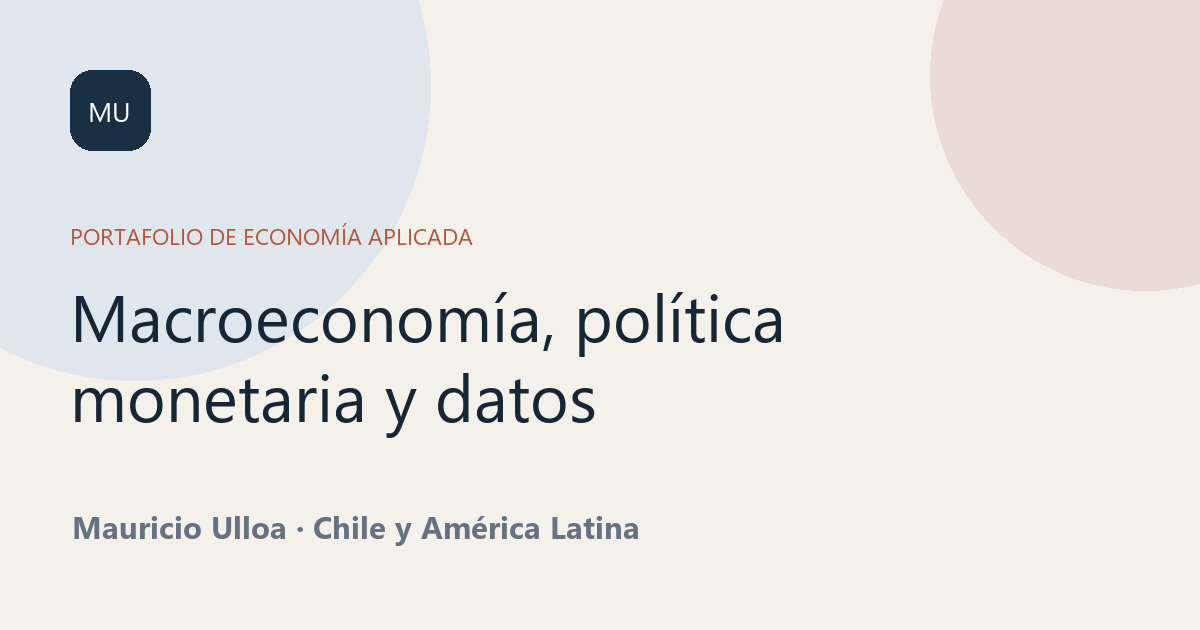
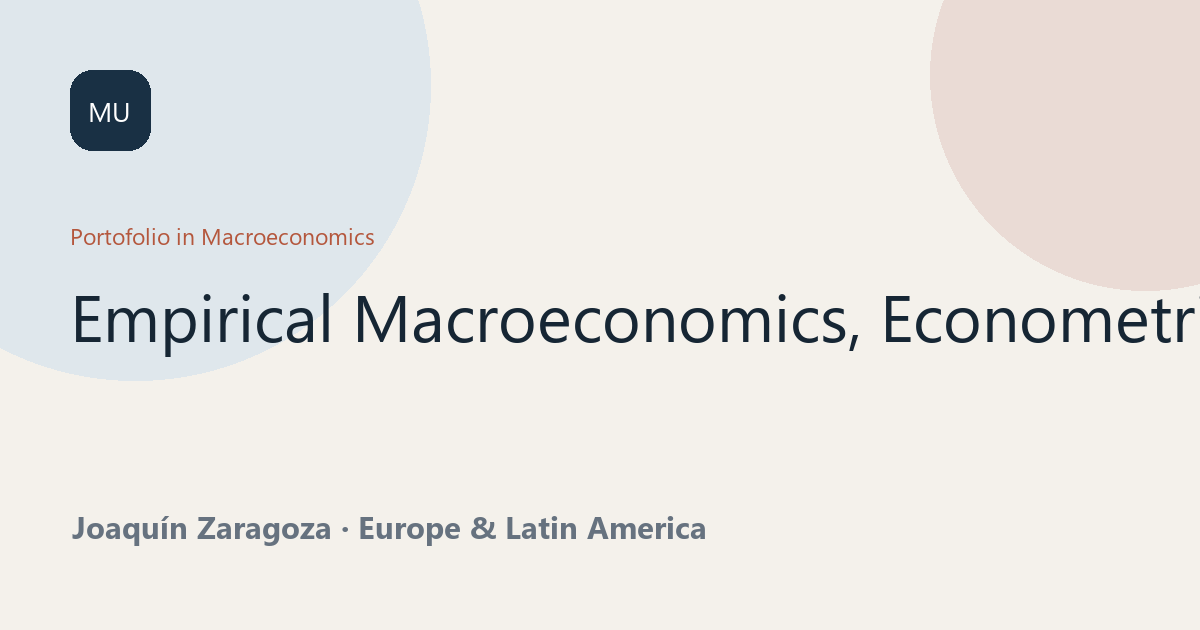
Building site con cambios anteriores

diff --git a/docs/index.html b/docs/index.html
@@ -4,13 +4,13 @@
   <meta charset="utf-8">
   <meta name="viewport" content="width=device-width, initial-scale=1">
   <title>Home · Joaquín Zaragoza López</title>
-  <meta name="description" content="Economics Portafolio: Empirical Macroeconomics, Econometrics, Monetary &amp; Fiscal Policy, and more of Latin America and Europe.">
+  <meta name="description" content="Economics Portfolio: Empirical Macroeconomics, Econometrics, Monetary &amp; Fiscal Policy, and more of Latin America and Europe.">
   <meta name="author" content="Joaquín Zaragoza López">
   <meta name="theme-color" content="#f4f1eb">
   <link rel="canonical" href="https://bumbli99.github.io/Economics/">
   <meta property="og:type" content="website">
   <meta property="og:title" content="Home · Joaquín Zaragoza López">
-  <meta property="og:description" content="Economics Portafolio: Empirical Macroeconomics, Econometrics, Monetary &amp; Fiscal Policy, and more of Latin America and Europe.">
+  <meta property="og:description" content="Economics Portfolio: Empirical Macroeconomics, Econometrics, Monetary &amp; Fiscal Policy, and more of Latin America and Europe.">
   <meta property="og:url" content="https://bumbli99.github.io/Economics/">
   <meta property="og:image" content="https://bumbli99.github.io/Economics/assets/img/og-cover.png">
   <meta name="twitter:card" content="summary_large_image">
@@ -18,7 +18,7 @@
   <link rel="stylesheet" href="assets/css/site.css?v=b2127b65310f">
 </head>
 <body class="home">
-  <a class="skip-link" href="#contenido">Saltar al contenido</a>
+  <a class="skip-link" href="#contenido">Skip to the content</a>
   <header class="site-header">
     <div class="header-inner">
       <a class="brand" href="index.html" aria-label="Home">
@@ -29,7 +29,9 @@
       <nav class="site-nav" aria-label="Navegación principal">
         <a href="index.html" >Inicio</a>
         <a href="proyectos.html" >Proyectos</a>
-        <a href="analisis.html" >Análisis</a>
+        
+        
+        <!-- <a href="analisis.html" >Análisis</a> -->
         <a href="cv.html" >CV</a>
         <a href="contacto.html" >Contacto</a>
       </nav>
@@ -37,16 +39,15 @@
   </header>
 
   <main id="contenido" class="site-main">
-<section class="home-hero">
-  <div class="container hero-grid">
+<section class="home-hero"> 
     <div class="hero-copy">
-      <p class="eyebrow">Portafolio de economía aplicada</p>
+      <p class="eyebrow">Personal portfolio in Macroeconomics</p>
       <h1 class="display-title">Macroeconomía aplicada, proyecciones y política pública.</h1>
       <p class="lead">Soy economista y Magíster en Análisis Económico por la Universidad de Chile. Analizo la actividad económica, los riesgos fiscales y las diferencias territoriales mediante datos, econometría y escenarios. Este portafolio reúne herramientas interactivas para explorar los resultados y entender sus implicancias.</p>
       <div class="actions">
-        <a class="button button-primary" href="proyectos.html">Explorar proyectos</a>
-        <a class="button button-secondary" href="assets/files/cv-mauricio-ulloa.pdf">Descargar CV</a>
-        <a class="button button-ghost" href="contacto.html">Contacto</a>
+        <a class="button button-primary" href="proyectos.html">Explore projects</a>
+        <a class="button button-secondary" href="assets/files/Curriculum_Vitae__08_26_.pdf> Download CV</a>
+        <a class="button button-ghost" href="contacto.html">Contact</a>
       </div>
       <div class="stats-grid">
         <div class="stat"><div class="stat-value">7</div><div class="stat-label">proyectos aplicados</div></div>
@@ -109,7 +110,10 @@
   </div>
 </section>
 
-<section class="section analysis-home" aria-labelledby="analisis-heading">
+
+<!-- SE ELIMINA LA SECCIÓN DE ANÁLISIS. SE MANTIENE POR POSIBLE USO INTERESANTE EN EL FUTURO-->
+
+<!--<section class="section analysis-home" aria-labelledby="analisis-heading">
   <div class="container">
     <div class="section-heading">
       <div><p class="eyebrow">Ideas y debate</p><h2 id="analisis-heading">Análisis</h2><p>Columnas sobre economía, instituciones y política pública.</p></div>
@@ -138,7 +142,7 @@
     <a class="text-link" href="analisis/cuantos-funcionarios-necesita-el-estado.html" aria-label="Leer columna: ¿Cuántos funcionarios necesita el Estado?">Leer columna →</a>
   </article>
 </div>  </div>
-</section>
+</section>-->
 
 <section class="section section-alt">
   <div class="container two-col">

diff --git a/docs/analisis/hidrogeno-verde-competitividad.html b/docs/analisis/hidrogeno-verde-competitividad.html
@@ -16,11 +16,11 @@
   <meta name="twitter:card" content="summary_large_image">
   <link rel="icon" href="../assets/img/favicon.svg" type="image/svg+xml">
   <link rel="stylesheet" href="../assets/css/site.css?v=b2127b65310f">
-<meta property="article:author" content="Mauricio Ulloa">
+<meta property="article:author" content="Joaquín Zaragoza">
 <meta property="article:section" content="Energía y desarrollo productivo">
 </head>
 <body class="">
-  <a class="skip-link" href="#contenido">Saltar al contenido</a>
+  <a class="skip-link" href="#contenido">Skip to the content</a>
   <header class="site-header">
     <div class="header-inner">
       <a class="brand" href="../index.html" aria-label="Home">
@@ -31,7 +31,9 @@
       <nav class="site-nav" aria-label="Navegación principal">
         <a href="../index.html" >Inicio</a>
         <a href="../proyectos.html" >Proyectos</a>
-        <a href="../analisis.html" aria-current="page">Análisis</a>
+        
+        
+        <!-- <a href="../analisis.html" aria-current="page">Análisis</a> -->
         <a href="../cv.html" >CV</a>
         <a href="../contacto.html" >Contacto</a>
       </nav>
@@ -45,7 +47,7 @@
     <p class="eyebrow">Energía y desarrollo productivo</p>
     <h1>Del potencial a la competitividad: el desafío del hidrógeno verde en Chile</h1>
     <p class="analysis-deck">Una ventaja natural no es todavía una ventaja competitiva.</p>
-    <div class="analysis-byline"><strong>Mauricio Ulloa</strong><span><time datetime="2026-05-25">25 de May de 2026</time> · 10 min de lectura</span></div>
+    <div class="analysis-byline"><strong>Joaquín Zaragoza</strong><span><time datetime="2026-05-25">25 de May de 2026</time> · 10 min de lectura</span></div>
   </header>
   <details class="analysis-contents">
     <summary>En esta columna</summary>

diff --git a/docs/analisis/cuantos-funcionarios-necesita-el-estado.html b/docs/analisis/cuantos-funcionarios-necesita-el-estado.html
@@ -16,11 +16,11 @@
   <meta name="twitter:card" content="summary_large_image">
   <link rel="icon" href="../assets/img/favicon.svg" type="image/svg+xml">
   <link rel="stylesheet" href="../assets/css/site.css?v=b2127b65310f">
-<meta property="article:author" content="Mauricio Ulloa">
+<meta property="article:author" content="Joaquín Zaragoza">
 <meta property="article:section" content="Gasto público y productividad">
 </head>
 <body class="">
-  <a class="skip-link" href="#contenido">Saltar al contenido</a>
+  <a class="skip-link" href="#contenido">Skip to the content</a>
   <header class="site-header">
     <div class="header-inner">
       <a class="brand" href="../index.html" aria-label="Home">
@@ -31,7 +31,9 @@
       <nav class="site-nav" aria-label="Navegación principal">
         <a href="../index.html" >Inicio</a>
         <a href="../proyectos.html" >Proyectos</a>
-        <a href="../analisis.html" aria-current="page">Análisis</a>
+        
+        
+        <!-- <a href="../analisis.html" aria-current="page">Análisis</a> -->
         <a href="../cv.html" >CV</a>
         <a href="../contacto.html" >Contacto</a>
       </nav>
@@ -45,7 +47,7 @@
     <p class="eyebrow">Gasto público y productividad</p>
     <h1>¿Cuántos funcionarios necesita el Estado?</h1>
     <p class="analysis-deck">Una discusión sobre ajuste fiscal, funciones públicas y eficiencia.</p>
-    <div class="analysis-byline"><strong>Mauricio Ulloa</strong><span><time datetime="2026-01-31">31 de January de 2026</time> · 10 min de lectura</span></div>
+    <div class="analysis-byline"><strong>Joaquín Zaragoza</strong><span><time datetime="2026-01-31">31 de January de 2026</time> · 10 min de lectura</span></div>
   </header>
   <details class="analysis-contents">
     <summary>En esta columna</summary>

diff --git a/docs/analisis/quien-gana-mas-en-el-estado.html b/docs/analisis/quien-gana-mas-en-el-estado.html
@@ -16,11 +16,11 @@
   <meta name="twitter:card" content="summary_large_image">
   <link rel="icon" href="../assets/img/favicon.svg" type="image/svg+xml">
   <link rel="stylesheet" href="../assets/css/site.css?v=b2127b65310f">
-<meta property="article:author" content="Mauricio Ulloa">
+<meta property="article:author" content="Joaquín Zaragoza">
 <meta property="article:section" content="Instituciones y capital humano">
 </head>
 <body class="">
-  <a class="skip-link" href="#contenido">Saltar al contenido</a>
+  <a class="skip-link" href="#contenido">Skip to the content</a>
   <header class="site-header">
     <div class="header-inner">
       <a class="brand" href="../index.html" aria-label="Home">
@@ -31,7 +31,9 @@
       <nav class="site-nav" aria-label="Navegación principal">
         <a href="../index.html" >Inicio</a>
         <a href="../proyectos.html" >Proyectos</a>
-        <a href="../analisis.html" aria-current="page">Análisis</a>
+        
+        
+        <!-- <a href="../analisis.html" aria-current="page">Análisis</a> -->
         <a href="../cv.html" >CV</a>
         <a href="../contacto.html" >Contacto</a>
       </nav>
@@ -45,7 +47,7 @@
     <p class="eyebrow">Instituciones y capital humano</p>
     <h1>¿Quién gana más en el Estado?</h1>
     <p class="analysis-deck">Remuneraciones públicas, capital humano y el caso del Banco Central.</p>
-    <div class="analysis-byline"><strong>Mauricio Ulloa</strong><span><time datetime="2026-09-05">5 de September de 2026</time> · 6 min de lectura</span></div>
+    <div class="analysis-byline"><strong>Joaquín Zaragoza</strong><span><time datetime="2026-09-05">5 de September de 2026</time> · 6 min de lectura</span></div>
   </header>
   <details class="analysis-contents">
     <summary>En esta columna</summary>

diff --git a/docs/proyectos/sostenibilidad-deuda.html b/docs/proyectos/sostenibilidad-deuda.html
@@ -18,7 +18,7 @@
   <link rel="stylesheet" href="../assets/css/site.css?v=b2127b65310f">
 </head>
 <body class="project project-sostenibilidad-deuda">
-  <a class="skip-link" href="#contenido">Saltar al contenido</a>
+  <a class="skip-link" href="#contenido">Skip to the content</a>
   <header class="site-header">
     <div class="header-inner">
       <a class="brand" href="../index.html" aria-label="Home">
@@ -29,7 +29,9 @@
       <nav class="site-nav" aria-label="Navegación principal">
         <a href="../index.html" >Inicio</a>
         <a href="../proyectos.html" aria-current="page">Proyectos</a>
-        <a href="../analisis.html" >Análisis</a>
+        
+        
+        <!-- <a href="../analisis.html" >Análisis</a> -->
         <a href="../cv.html" >CV</a>
         <a href="../contacto.html" >Contacto</a>
       </nav>

diff --git a/docs/proyectos/atlas-metropolitano.html b/docs/proyectos/atlas-metropolitano.html
@@ -18,7 +18,7 @@
   <link rel="stylesheet" href="../assets/css/site.css?v=b2127b65310f">
 </head>
 <body class="project project-atlas-metropolitano">
-  <a class="skip-link" href="#contenido">Saltar al contenido</a>
+  <a class="skip-link" href="#contenido">Skip to the content</a>
   <header class="site-header">
     <div class="header-inner">
       <a class="brand" href="../index.html" aria-label="Home">
@@ -29,7 +29,9 @@
       <nav class="site-nav" aria-label="Navegación principal">
         <a href="../index.html" >Inicio</a>
         <a href="../proyectos.html" aria-current="page">Proyectos</a>
-        <a href="../analisis.html" >Análisis</a>
+        
+        
+        <!-- <a href="../analisis.html" >Análisis</a> -->
         <a href="../cv.html" >CV</a>
         <a href="../contacto.html" >Contacto</a>
       </nav>

diff --git a/docs/proyectos/curva-rendimiento.html b/docs/proyectos/curva-rendimiento.html
@@ -18,7 +18,7 @@
   <link rel="stylesheet" href="../assets/css/site.css?v=b2127b65310f">
 </head>
 <body class="project project-curva-rendimiento">
-  <a class="skip-link" href="#contenido">Saltar al contenido</a>
+  <a class="skip-link" href="#contenido">Skip to the content</a>
   <header class="site-header">
     <div class="header-inner">
       <a class="brand" href="../index.html" aria-label="Home">
@@ -29,7 +29,9 @@
       <nav class="site-nav" aria-label="Navegación principal">
         <a href="../index.html" >Inicio</a>
         <a href="../proyectos.html" aria-current="page">Proyectos</a>
-        <a href="../analisis.html" >Análisis</a>
+        
+        
+        <!-- <a href="../analisis.html" >Análisis</a> -->
         <a href="../cv.html" >CV</a>
         <a href="../contacto.html" >Contacto</a>
       </nav>

diff --git a/docs/proyectos/transmision-tpm.html b/docs/proyectos/transmision-tpm.html
@@ -18,7 +18,7 @@
   <link rel="stylesheet" href="../assets/css/site.css?v=b2127b65310f">
 </head>
 <body class="project project-transmision-tpm">
-  <a class="skip-link" href="#contenido">Saltar al contenido</a>
+  <a class="skip-link" href="#contenido">Skip to the content</a>
   <header class="site-header">
     <div class="header-inner">
       <a class="brand" href="../index.html" aria-label="Home">
@@ -29,7 +29,9 @@
       <nav class="site-nav" aria-label="Navegación principal">
         <a href="../index.html" >Inicio</a>
         <a href="../proyectos.html" aria-current="page">Proyectos</a>
-        <a href="../analisis.html" >Análisis</a>
+        
+        
+        <!-- <a href="../analisis.html" >Análisis</a> -->
         <a href="../cv.html" >CV</a>
         <a href="../contacto.html" >Contacto</a>
       </nav>

diff --git a/docs/proyectos/ipom-iris.html b/docs/proyectos/ipom-iris.html
@@ -18,7 +18,7 @@
   <link rel="stylesheet" href="../assets/css/site.css?v=b2127b65310f">
 </head>
 <body class="project project-ipom-iris">
-  <a class="skip-link" href="#contenido">Saltar al contenido</a>
+  <a class="skip-link" href="#contenido">Skip to the content</a>
   <header class="site-header">
     <div class="header-inner">
       <a class="brand" href="../index.html" aria-label="Home">
@@ -29,7 +29,9 @@
       <nav class="site-nav" aria-label="Navegación principal">
         <a href="../index.html" >Inicio</a>
         <a href="../proyectos.html" aria-current="page">Proyectos</a>
-        <a href="../analisis.html" >Análisis</a>
+        
+        
+        <!-- <a href="../analisis.html" >Análisis</a> -->
         <a href="../cv.html" >CV</a>
         <a href="../contacto.html" >Contacto</a>
       </nav>

diff --git a/docs/proyectos/exchange.html b/docs/proyectos/exchange.html
@@ -18,7 +18,7 @@
   <link rel="stylesheet" href="../assets/css/site.css?v=b2127b65310f">
 </head>
 <body class="project project-exchange">
-  <a class="skip-link" href="#contenido">Saltar al contenido</a>
+  <a class="skip-link" href="#contenido">Skip to the content</a>
   <header class="site-header">
     <div class="header-inner">
       <a class="brand" href="../index.html" aria-label="Home">
@@ -29,7 +29,9 @@
       <nav class="site-nav" aria-label="Navegación principal">
         <a href="../index.html" >Inicio</a>
         <a href="../proyectos.html" aria-current="page">Proyectos</a>
-        <a href="../analisis.html" >Análisis</a>
+        
+        
+        <!-- <a href="../analisis.html" >Análisis</a> -->
         <a href="../cv.html" >CV</a>
         <a href="../contacto.html" >Contacto</a>
       </nav>

diff --git a/docs/proyectos/imacec.html b/docs/proyectos/imacec.html
@@ -18,7 +18,7 @@
   <link rel="stylesheet" href="../assets/css/site.css?v=b2127b65310f">
 </head>
 <body class="project project-imacec">
-  <a class="skip-link" href="#contenido">Saltar al contenido</a>
+  <a class="skip-link" href="#contenido">Skip to the content</a>
   <header class="site-header">
     <div class="header-inner">
       <a class="brand" href="../index.html" aria-label="Home">
@@ -29,7 +29,9 @@
       <nav class="site-nav" aria-label="Navegación principal">
         <a href="../index.html" >Inicio</a>
         <a href="../proyectos.html" aria-current="page">Proyectos</a>
-        <a href="../analisis.html" >Análisis</a>
+        
+        
+        <!-- <a href="../analisis.html" >Análisis</a> -->
         <a href="../cv.html" >CV</a>
         <a href="../contacto.html" >Contacto</a>
       </nav>

diff --git a/docs/analisis.html b/docs/analisis.html
@@ -18,7 +18,7 @@
   <link rel="stylesheet" href="assets/css/site.css?v=b2127b65310f">
 </head>
 <body class="">
-  <a class="skip-link" href="#contenido">Saltar al contenido</a>
+  <a class="skip-link" href="#contenido">Skip to the content</a>
   <header class="site-header">
     <div class="header-inner">
       <a class="brand" href="index.html" aria-label="Home">
@@ -29,7 +29,9 @@
       <nav class="site-nav" aria-label="Navegación principal">
         <a href="index.html" >Inicio</a>
         <a href="proyectos.html" >Proyectos</a>
-        <a href="analisis.html" aria-current="page">Análisis</a>
+        
+        
+        <!-- <a href="analisis.html" aria-current="page">Análisis</a> -->
         <a href="cv.html" >CV</a>
         <a href="contacto.html" >Contacto</a>
       </nav>
